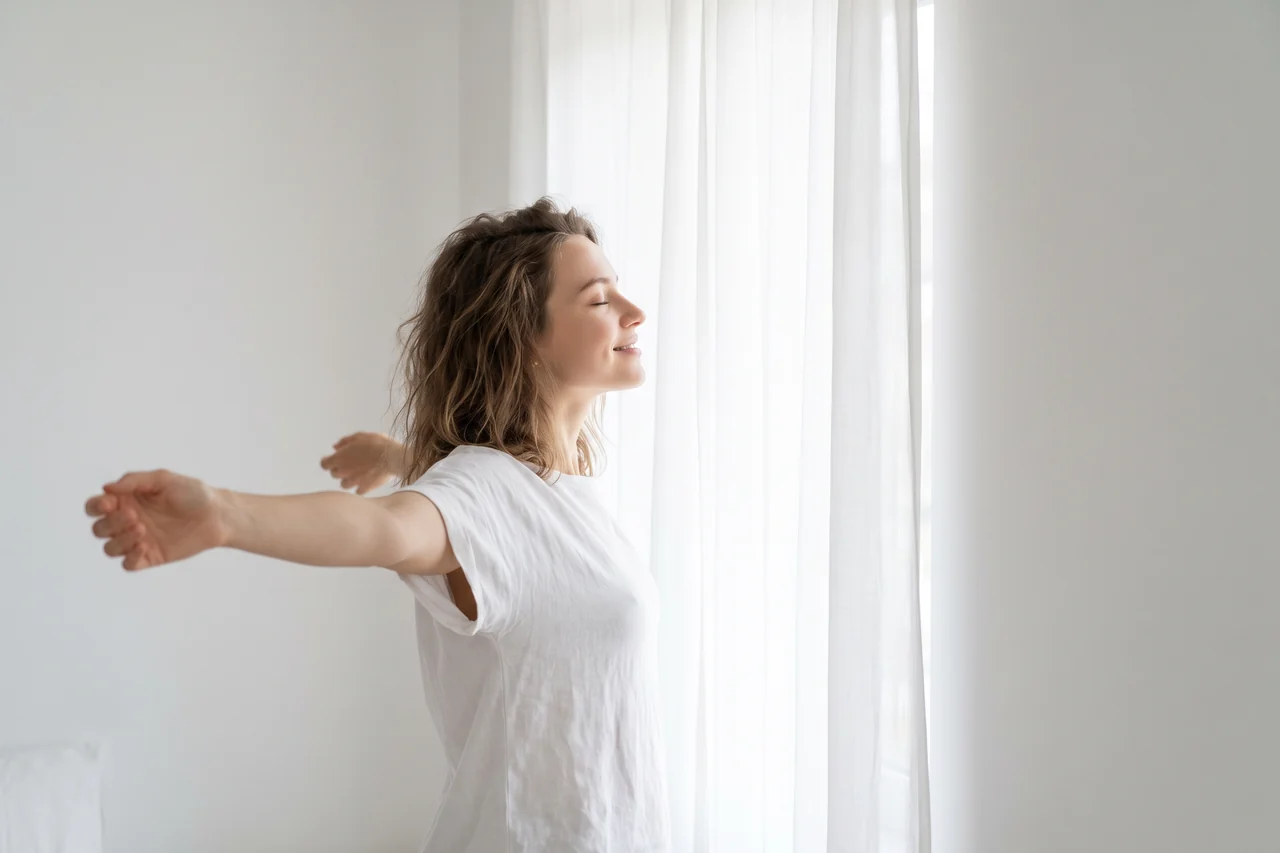
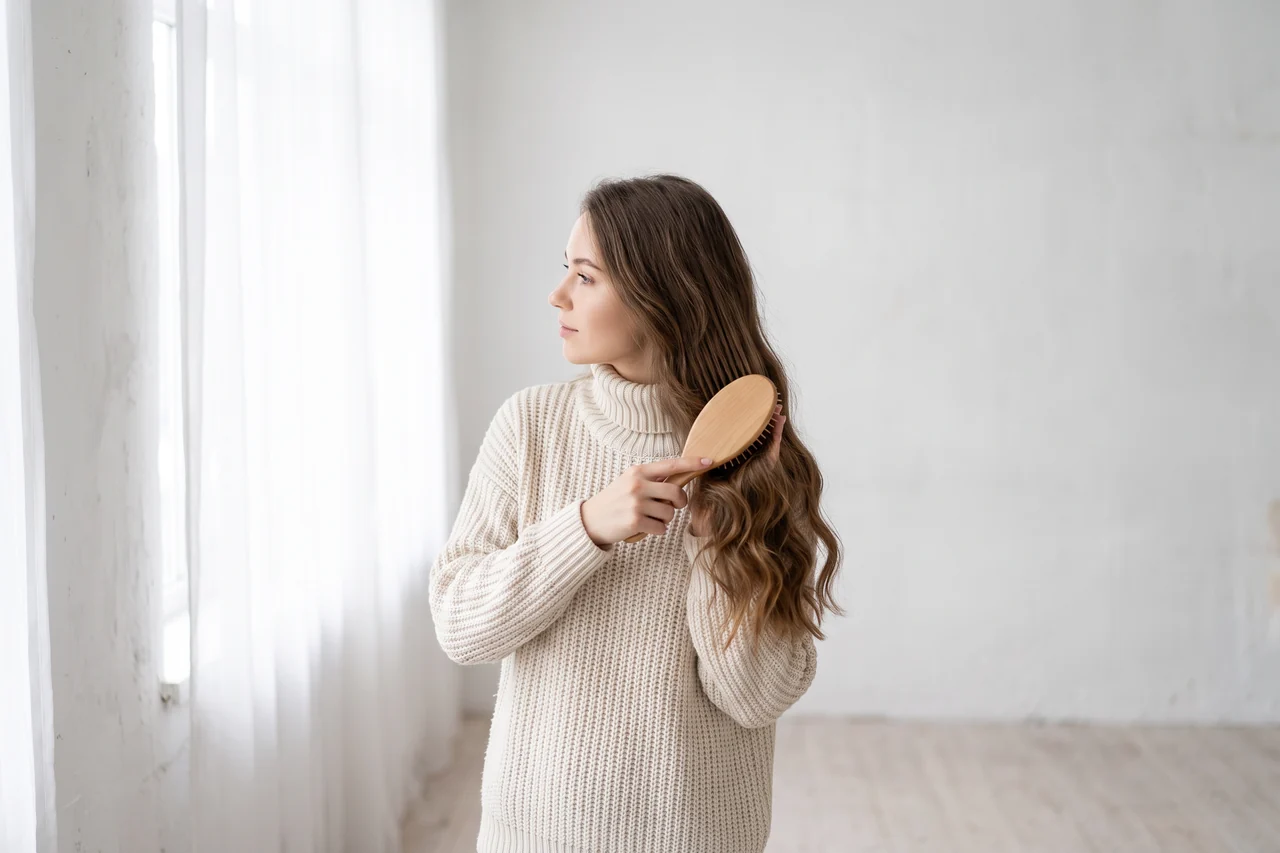
Testate verbi dello sport (un ragazzo, abiti larghi) e verbi del corpo (una ragazza che si pettina) rifatte; regola degli abiti sobri

diff --git a/src/html/fr/vocabulaire/index.html b/src/html/fr/vocabulaire/index.html
@@ -21,7 +21,7 @@
                 <h2>Le corps humain</h2>
                 <p>63 mots pour la tête, le tronc, les mains, les jambes, la peau, les os et les organes, avec des photos réalistes.</p>
               </div></a>
-            <a class="vocabulary-category" href="/fr/vocabulaire/vocabulaire-verbes-du-corps-en-italien.html"><img src="../../assets/vocabolario/verbi-corpo-hero.webp" width="1280" height="853" alt="Une jeune femme en t-shirt blanc ouvre les bras et ferme les yeux devant une fenêtre lumineuse" loading="lazy" decoding="async">
+            <a class="vocabulary-category" href="/fr/vocabulaire/vocabulaire-verbes-du-corps-en-italien.html"><img src="../../assets/vocabolario/verbi-corpo-hero.webp" width="1280" height="853" alt="Une jeune femme en pull crème se brosse les cheveux longs avec une brosse en bois, près d’une fenêtre lumineuse" loading="lazy" decoding="async">
               <div class="vocabulary-category-body">
                 <h2>Les verbes du corps</h2>
                 <p>94 verbes pour les mains, la bouche, les yeux et les jambes : se peigner, toucher, mordre, rougir, entendre…</p>
@@ -146,7 +146,7 @@
                 <h2>Le sport</h2>
                 <p>45 mots pour le sport : les sports, les lieux, l’équipement et la compétition.</p>
               </div></a>
-            <a class="vocabulary-category" href="/fr/vocabulaire/vocabulaire-verbes-du-sport-en-italien.html"><img src="../../assets/vocabolario/verbi-sport-hero.webp" width="1280" height="853" alt="Une jeune femme court seule sur une route de campagne au lever du soleil, avec des collines et des cyprès à l’arrière-plan" loading="lazy" decoding="async">
+            <a class="vocabulary-category" href="/fr/vocabulaire/vocabulaire-verbes-du-sport-en-italien.html"><img src="../../assets/vocabolario/verbi-sport-hero.webp" width="1280" height="853" alt="Un jeune homme en t-shirt et en short court seul sur une route de campagne au lever du soleil, entre les collines et les cyprès" loading="lazy" decoding="async">
               <div class="vocabulary-category-body">
                 <h2>Les verbes du sport</h2>
                 <p>37 verbes pour le sport : s’entraîner, jouer au foot, marquer, arrêter le ballon, supporter, arriver premier…</p>

diff --git a/src/html/de/wortschatz/index.html b/src/html/de/wortschatz/index.html
@@ -21,7 +21,7 @@
                 <h2>Der menschliche Körper</h2>
                 <p>63 Wörter für Kopf, Rumpf, Hände, Beine, Haut, Knochen und Organe, mit realistischen Fotos.</p>
               </div></a>
-            <a class="vocabulary-category" href="/de/wortschatz/italienischer-wortschatz-verben-koerper.html"><img src="../../assets/vocabolario/verbi-corpo-hero.webp" width="1280" height="853" alt="Eine junge Frau im weißen T-Shirt breitet vor einem hellen Fenster die Arme aus und schließt die Augen" loading="lazy" decoding="async">
+            <a class="vocabulary-category" href="/de/wortschatz/italienischer-wortschatz-verben-koerper.html"><img src="../../assets/vocabolario/verbi-corpo-hero.webp" width="1280" height="853" alt="Eine junge Frau im cremefarbenen Pullover bürstet sich neben einem hellen Fenster mit einer Holzbürste die langen Haare" loading="lazy" decoding="async">
               <div class="vocabulary-category-body">
                 <h2>Die Verben des Körpers</h2>
                 <p>94 Verben für Hände, Mund, Augen und Beine: kämmen, berühren, beißen, erröten, hören …</p>
@@ -146,7 +146,7 @@
                 <h2>Der Sport</h2>
                 <p>45 Wörter für den Sport: die Sportarten, die Orte, die Ausrüstung und der Wettkampf.</p>
               </div></a>
-            <a class="vocabulary-category" href="/de/wortschatz/italienischer-wortschatz-verben-sport.html"><img src="../../assets/vocabolario/verbi-sport-hero.webp" width="1280" height="853" alt="Eine junge Frau läuft bei Sonnenaufgang allein auf einer Landstraße, im Hintergrund Hügel und Zypressen" loading="lazy" decoding="async">
+            <a class="vocabulary-category" href="/de/wortschatz/italienischer-wortschatz-verben-sport.html"><img src="../../assets/vocabolario/verbi-sport-hero.webp" width="1280" height="853" alt="Ein junger Mann in T-Shirt und Shorts läuft bei Sonnenaufgang allein auf einer Landstraße zwischen Hügeln und Zypressen" loading="lazy" decoding="async">
               <div class="vocabulary-category-body">
                 <h2>Verben im Sport</h2>
                 <p>37 Verben für den Sport: trainieren, Fußball spielen, ein Tor schießen, halten, anfeuern, als Erster ankommen …</p>

diff --git a/src/html/es/vocabulario/index.html b/src/html/es/vocabulario/index.html
@@ -21,7 +21,7 @@
                 <h2>El cuerpo humano</h2>
                 <p>63 palabras para la cabeza, el tronco, las manos, las piernas, la piel, los huesos y los órganos, con fotos realistas.</p>
               </div></a>
-            <a class="vocabulary-category" href="/es/vocabulario/vocabulario-verbos-del-cuerpo-en-italiano.html"><img src="../../assets/vocabolario/verbi-corpo-hero.webp" width="1280" height="853" alt="Una chica con camiseta blanca abre los brazos y cierra los ojos delante de una ventana luminosa" loading="lazy" decoding="async">
+            <a class="vocabulary-category" href="/es/vocabulario/vocabulario-verbos-del-cuerpo-en-italiano.html"><img src="../../assets/vocabolario/verbi-corpo-hero.webp" width="1280" height="853" alt="Una chica con un jersey color crema se peina el pelo largo con un cepillo de madera, junto a una ventana luminosa" loading="lazy" decoding="async">
               <div class="vocabulary-category-body">
                 <h2>Los verbos del cuerpo</h2>
                 <p>94 verbos para las manos, la boca, los ojos y las piernas: peinarse, tocar, morder, sonrojarse, oír…</p>
@@ -146,7 +146,7 @@
                 <h2>El deporte</h2>
                 <p>45 palabras para el deporte: los deportes, los lugares, el material y la competición.</p>
               </div></a>
-            <a class="vocabulary-category" href="/es/vocabulario/vocabulario-verbos-del-deporte-en-italiano.html"><img src="../../assets/vocabolario/verbi-sport-hero.webp" width="1280" height="853" alt="Una chica corre sola por una carretera de campo al amanecer, con colinas y cipreses al fondo" loading="lazy" decoding="async">
+            <a class="vocabulary-category" href="/es/vocabulario/vocabulario-verbos-del-deporte-en-italiano.html"><img src="../../assets/vocabolario/verbi-sport-hero.webp" width="1280" height="853" alt="Un chico con camiseta y pantalón corto corre solo por una carretera de campo al amanecer, entre colinas y cipreses" loading="lazy" decoding="async">
               <div class="vocabulary-category-body">
                 <h2>Los verbos del deporte</h2>
                 <p>37 verbos para el deporte: entrenar, jugar al fútbol, marcar, parar, animar, llegar el primero…</p>

diff --git a/src/html/tr/kelime-bilgisi/index.html b/src/html/tr/kelime-bilgisi/index.html
@@ -21,7 +21,7 @@
                 <h2>İnsan vücudu</h2>
                 <p>Baş, gövde, eller, bacaklar, cilt, kemikler ve organlar için 63 kelime, gerçekçi fotoğraflarla.</p>
               </div></a>
-            <a class="vocabulary-category" href="/tr/kelime-bilgisi/italyanca-vucut-fiilleri-kelimeleri.html"><img src="../../assets/vocabolario/verbi-corpo-hero.webp" width="1280" height="853" alt="Beyaz tişörtlü genç bir kadın aydınlık bir pencerenin önünde kollarını açıp gözlerini kapatıyor" loading="lazy" decoding="async">
+            <a class="vocabulary-category" href="/tr/kelime-bilgisi/italyanca-vucut-fiilleri-kelimeleri.html"><img src="../../assets/vocabolario/verbi-corpo-hero.webp" width="1280" height="853" alt="Krem rengi kazaklı genç bir kadın, aydınlık bir pencerenin yanında uzun saçlarını tahta bir fırçayla tarıyor" loading="lazy" decoding="async">
               <div class="vocabulary-category-body">
                 <h2>Vücut fiilleri</h2>
                 <p>Eller, ağız, gözler ve bacaklar için 94 fiil: taramak, dokunmak, ısırmak, kızarmak, duymak…</p>
@@ -146,7 +146,7 @@
                 <h2>Spor</h2>
                 <p>Spor için 45 kelime: sporlar, yerler, malzemeler ve yarışma.</p>
               </div></a>
-            <a class="vocabulary-category" href="/tr/kelime-bilgisi/italyanca-spor-fiilleri-kelimeleri.html"><img src="../../assets/vocabolario/verbi-sport-hero.webp" width="1280" height="853" alt="Genç bir kadın gün doğarken bir köy yolunda tek başına koşuyor, arka planda tepeler ve selviler" loading="lazy" decoding="async">
+            <a class="vocabulary-category" href="/tr/kelime-bilgisi/italyanca-spor-fiilleri-kelimeleri.html"><img src="../../assets/vocabolario/verbi-sport-hero.webp" width="1280" height="853" alt="Tişörtlü ve şortlu genç bir adam gün doğarken tepeler ve selviler arasındaki bir köy yolunda tek başına koşuyor" loading="lazy" decoding="async">
               <div class="vocabulary-category-body">
                 <h2>Spor fiilleri</h2>
                 <p>Spor için 37 fiil: antrenman yapmak, futbol oynamak, gol atmak, kurtarmak, takım tutmak, birinci gelmek…</p>

diff --git a/src/html/pl/slownictwo/index.html b/src/html/pl/slownictwo/index.html
@@ -21,7 +21,7 @@
                 <h2>Ciało człowieka</h2>
                 <p>63 słów: głowa, tułów, ręce, nogi, skóra, kości i narządy, z realistycznymi zdjęciami.</p>
               </div></a>
-            <a class="vocabulary-category" href="/pl/slownictwo/wloskie-slownictwo-czasowniki-ciala.html"><img src="../../assets/vocabolario/verbi-corpo-hero.webp" width="1280" height="853" alt="Młoda kobieta w białej koszulce rozkłada ramiona i zamyka oczy przed jasnym oknem" loading="lazy" decoding="async">
+            <a class="vocabulary-category" href="/pl/slownictwo/wloskie-slownictwo-czasowniki-ciala.html"><img src="../../assets/vocabolario/verbi-corpo-hero.webp" width="1280" height="853" alt="Młoda kobieta w kremowym swetrze czesze długie włosy drewnianą szczotką przy jasnym oknie" loading="lazy" decoding="async">
               <div class="vocabulary-category-body">
                 <h2>Czasowniki związane z ciałem</h2>
                 <p>94 czasowników dla rąk, ust, oczu i nóg: czesać się, dotykać, gryźć, rumienić się, słyszeć…</p>
@@ -146,7 +146,7 @@
                 <h2>Sport</h2>
                 <p>45 słów o sporcie: dyscypliny, miejsca, sprzęt i zawody.</p>
               </div></a>
-            <a class="vocabulary-category" href="/pl/slownictwo/wloskie-slownictwo-czasowniki-sportowe.html"><img src="../../assets/vocabolario/verbi-sport-hero.webp" width="1280" height="853" alt="Młoda kobieta biegnie sama wiejską drogą o wschodzie słońca, w tle wzgórza i cyprysy" loading="lazy" decoding="async">
+            <a class="vocabulary-category" href="/pl/slownictwo/wloskie-slownictwo-czasowniki-sportowe.html"><img src="../../assets/vocabolario/verbi-sport-hero.webp" width="1280" height="853" alt="Młody mężczyzna w koszulce i szortach biegnie sam wiejską drogą o wschodzie słońca, wśród wzgórz i cyprysów" loading="lazy" decoding="async">
               <div class="vocabulary-category-body">
                 <h2>Czasowniki sportowe</h2>
                 <p>37 czasowników sportowych: trenować, grać w piłkę nożną, strzelić gola, obronić strzał, kibicować, przybiec pierwszy…</p>

diff --git a/src/html/ja/goi/index.html b/src/html/ja/goi/index.html
@@ -21,7 +21,7 @@
                 <h2>人間の体</h2>
                 <p>頭、胴体、手、足、皮膚、骨、内臓の言葉 63 語。リアルな写真付き。</p>
               </div></a>
-            <a class="vocabulary-category" href="/ja/goi/italian-body-verbs-vocabulary.html"><img src="../../assets/vocabolario/verbi-corpo-hero.webp" width="1280" height="853" alt="明るい窓の前で、白いTシャツの若い女性が両腕を広げて目を閉じている" loading="lazy" decoding="async">
+            <a class="vocabulary-category" href="/ja/goi/italian-body-verbs-vocabulary.html"><img src="../../assets/vocabolario/verbi-corpo-hero.webp" width="1280" height="853" alt="明るい窓のそばで、クリーム色のセーターを着た若い女性が木のブラシで長い髪をとかしている" loading="lazy" decoding="async">
               <div class="vocabulary-category-body">
                 <h2>体の動詞</h2>
                 <p>手、口、目、足の動詞 94 語：とかす、触る、かむ、赤くなる、聞こえる…</p>
@@ -146,7 +146,7 @@
                 <h2>スポーツ</h2>
                 <p>スポーツに関する 45 語。競技、場所、道具、そして試合。</p>
               </div></a>
-            <a class="vocabulary-category" href="/ja/goi/italian-sports-verbs-vocabulary.html"><img src="../../assets/vocabolario/verbi-sport-hero.webp" width="1280" height="853" alt="夜明けの田舎道をひとりで走る若い女性。背景には丘と糸杉" loading="lazy" decoding="async">
+            <a class="vocabulary-category" href="/ja/goi/italian-sports-verbs-vocabulary.html"><img src="../../assets/vocabolario/verbi-sport-hero.webp" width="1280" height="853" alt="夜明け、丘と糸杉の間の田舎道をひとりで走る、Tシャツと短パン姿の若い男性" loading="lazy" decoding="async">
               <div class="vocabulary-category-body">
                 <h2>スポーツの動詞</h2>
                 <p>スポーツで使う動詞 37 語：練習する、サッカーをする、ゴールを決める、セーブする、応援する、一位になる…</p>

diff --git a/src/html/cs/slovni-zasoba/index.html b/src/html/cs/slovni-zasoba/index.html
@@ -21,7 +21,7 @@
                 <h2>Lidské tělo</h2>
                 <p>63 slov pro hlavu, trup, ruce, nohy, kůži, kosti a orgány, s realistickými fotografiemi.</p>
               </div></a>
-            <a class="vocabulary-category" href="/cs/slovni-zasoba/italska-slovni-zasoba-slovesa-tela.html"><img src="../../assets/vocabolario/verbi-corpo-hero.webp" width="1280" height="853" alt="Mladá žena v bílém tričku rozpíná ruce a zavírá oči před světlým oknem" loading="lazy" decoding="async">
+            <a class="vocabulary-category" href="/cs/slovni-zasoba/italska-slovni-zasoba-slovesa-tela.html"><img src="../../assets/vocabolario/verbi-corpo-hero.webp" width="1280" height="853" alt="Mladá žena v krémovém svetru si u světlého okna češe dlouhé vlasy dřevěným kartáčem" loading="lazy" decoding="async">
               <div class="vocabulary-category-body">
                 <h2>Slovesa těla</h2>
                 <p>94 sloves pro ruce, ústa, oči a nohy: česat se, dotýkat se, kousat, červenat se, slyšet…</p>
@@ -146,7 +146,7 @@
                 <h2>Sport</h2>
                 <p>45 slov o sportu: sporty, místa, vybavení a závody.</p>
               </div></a>
-            <a class="vocabulary-category" href="/cs/slovni-zasoba/italska-slovni-zasoba-slovesa-sportu.html"><img src="../../assets/vocabolario/verbi-sport-hero.webp" width="1280" height="853" alt="Mladá žena běží za svítání sama po venkovské silnici, v pozadí kopce a cypřiše" loading="lazy" decoding="async">
+            <a class="vocabulary-category" href="/cs/slovni-zasoba/italska-slovni-zasoba-slovesa-sportu.html"><img src="../../assets/vocabolario/verbi-sport-hero.webp" width="1280" height="853" alt="Mladý muž v tričku a šortkách běží za svítání sám po venkovské silnici mezi kopci a cypřiši" loading="lazy" decoding="async">
               <div class="vocabulary-category-body">
                 <h2>Slovesa ve sportu</h2>
                 <p>37 sloves pro sport: trénovat, hrát fotbal, dát gól, chytit střelu, fandit, doběhnout první…</p>

diff --git a/src/html/en/vocabulary/index.html b/src/html/en/vocabulary/index.html
@@ -21,7 +21,7 @@
                 <h2>The human body</h2>
                 <p>63 words for the head, torso, hands, legs, skin, bones and organs, with realistic photos.</p>
               </div></a>
-            <a class="vocabulary-category" href="/en/vocabulary/italian-body-verbs-vocabulary.html"><img src="../../assets/vocabolario/verbi-corpo-hero.webp" width="1280" height="853" alt="A young woman in a white t-shirt opens her arms and closes her eyes in front of a bright window" loading="lazy" decoding="async">
+            <a class="vocabulary-category" href="/en/vocabulary/italian-body-verbs-vocabulary.html"><img src="../../assets/vocabolario/verbi-corpo-hero.webp" width="1280" height="853" alt="A young woman in a cream sweater brushes her long hair with a wooden hairbrush, next to a bright window" loading="lazy" decoding="async">
               <div class="vocabulary-category-body">
                 <h2>Body verbs</h2>
                 <p>94 verbs for hands, mouth, eyes and legs: to comb, to touch, to bite, to blush, to hear…</p>
@@ -146,7 +146,7 @@
                 <h2>Sports</h2>
                 <p>45 words for sports: the sports, the places, the equipment and the competition.</p>
               </div></a>
-            <a class="vocabulary-category" href="/en/vocabulary/italian-sports-verbs-vocabulary.html"><img src="../../assets/vocabolario/verbi-sport-hero.webp" width="1280" height="853" alt="A young woman runs alone on a country road at sunrise, with hills and cypresses in the background" loading="lazy" decoding="async">
+            <a class="vocabulary-category" href="/en/vocabulary/italian-sports-verbs-vocabulary.html"><img src="../../assets/vocabolario/verbi-sport-hero.webp" width="1280" height="853" alt="A young man in a t-shirt and shorts runs alone on a country road at sunrise, among hills and cypresses" loading="lazy" decoding="async">
               <div class="vocabulary-category-body">
                 <h2>Sports verbs</h2>
                 <p>37 verbs for sport: to train, to play football, to score, to save, to cheer, to come first…</p>

diff --git a/src/html/vocabolario/index.html b/src/html/vocabolario/index.html
@@ -21,7 +21,7 @@
                 <h2>Il corpo umano</h2>
                 <p>63 parole per la testa, il tronco, le mani, le gambe, la pelle, le ossa e gli organi, con foto realistiche.</p>
               </div></a>
-            <a class="vocabulary-category" href="verbi-corpo.html"><img src="../assets/vocabolario/verbi-corpo-hero.webp" width="1280" height="853" alt="Una ragazza con la maglietta bianca apre le braccia e chiude gli occhi davanti a una finestra luminosa" loading="lazy" decoding="async">
+            <a class="vocabulary-category" href="verbi-corpo.html"><img src="../assets/vocabolario/verbi-corpo-hero.webp" width="1280" height="853" alt="Una ragazza con un maglione color crema si pettina i capelli lunghi con una spazzola di legno, vicino a una finestra luminosa" loading="lazy" decoding="async">
               <div class="vocabulary-category-body">
                 <h2>I verbi del corpo</h2>
                 <p>94 verbi per le mani, la bocca, gli occhi e le gambe: pettinarsi, toccare, mordere, arrossire, sentire…</p>
@@ -146,7 +146,7 @@
                 <h2>Lo sport</h2>
                 <p>45 parole per lo sport: gli sport, i luoghi, l’attrezzatura e la gara.</p>
               </div></a>
-            <a class="vocabulary-category" href="verbi-sport.html"><img src="../assets/vocabolario/verbi-sport-hero.webp" width="1280" height="853" alt="Una ragazza corre da sola su una strada di campagna all’alba, con le colline e i cipressi sullo sfondo" loading="lazy" decoding="async">
+            <a class="vocabulary-category" href="verbi-sport.html"><img src="../assets/vocabolario/verbi-sport-hero.webp" width="1280" height="853" alt="Un ragazzo con maglietta e pantaloncini corre da solo su una strada di campagna all’alba, tra le colline e i cipressi" loading="lazy" decoding="async">
               <div class="vocabulary-category-body">
                 <h2>I verbi dello sport</h2>
                 <p>37 verbi per lo sport: allenarsi, giocare a calcio, segnare, parare, tifare, arrivare primo…</p>

diff --git a/src/html/fr/vocabulaire/vocabulaire-verbes-du-sport-en-italien.html b/src/html/fr/vocabulaire/vocabulaire-verbes-du-sport-en-italien.html
@@ -7,7 +7,7 @@
           <p class="lead">
             Observez la scène et découvrez chaque mot à travers l'image et trois exemples de phrases en italien.
           </p>
-          <img class="vocabulary-hero" src="../../assets/vocabolario/verbi-sport-hero.webp" width="1280" height="853" alt="Une jeune femme court seule sur une route de campagne au lever du soleil, avec des collines et des cyprès à l’arrière-plan" decoding="async">
+          <img class="vocabulary-hero" src="../../assets/vocabolario/verbi-sport-hero.webp" width="1280" height="853" alt="Un jeune homme en t-shirt et en short court seul sur une route de campagne au lever du soleil, entre les collines et les cyprès" decoding="async">
         </div>
       </section>
       <section class="section compact-top">

diff --git a/src/html/ja/goi/italian-body-verbs-vocabulary.html b/src/html/ja/goi/italian-body-verbs-vocabulary.html
@@ -7,7 +7,7 @@
           <p class="lead">
             場面を観察し、画像と 3 つのイタリア語の例文を通してそれぞれの単語を発見してください。
           </p>
-          <img class="vocabulary-hero" src="../../assets/vocabolario/verbi-corpo-hero.webp" width="1280" height="853" alt="明るい窓の前で、白いTシャツの若い女性が両腕を広げて目を閉じている" decoding="async">
+          <img class="vocabulary-hero" src="../../assets/vocabolario/verbi-corpo-hero.webp" width="1280" height="853" alt="明るい窓のそばで、クリーム色のセーターを着た若い女性が木のブラシで長い髪をとかしている" decoding="async">
         </div>
       </section>
       <section class="section compact-top">

diff --git a/src/html/de/wortschatz/italienischer-wortschatz-verben-sport.html b/src/html/de/wortschatz/italienischer-wortschatz-verben-sport.html
@@ -7,7 +7,7 @@
           <p class="lead">
             Beobachten Sie die Szene und entdecken Sie jedes Wort anhand des Bildes und dreier italienischer Beispielsätze.
           </p>
-          <img class="vocabulary-hero" src="../../assets/vocabolario/verbi-sport-hero.webp" width="1280" height="853" alt="Eine junge Frau läuft bei Sonnenaufgang allein auf einer Landstraße, im Hintergrund Hügel und Zypressen" decoding="async">
+          <img class="vocabulary-hero" src="../../assets/vocabolario/verbi-sport-hero.webp" width="1280" height="853" alt="Ein junger Mann in T-Shirt und Shorts läuft bei Sonnenaufgang allein auf einer Landstraße zwischen Hügeln und Zypressen" decoding="async">
         </div>
       </section>
       <section class="section compact-top">
